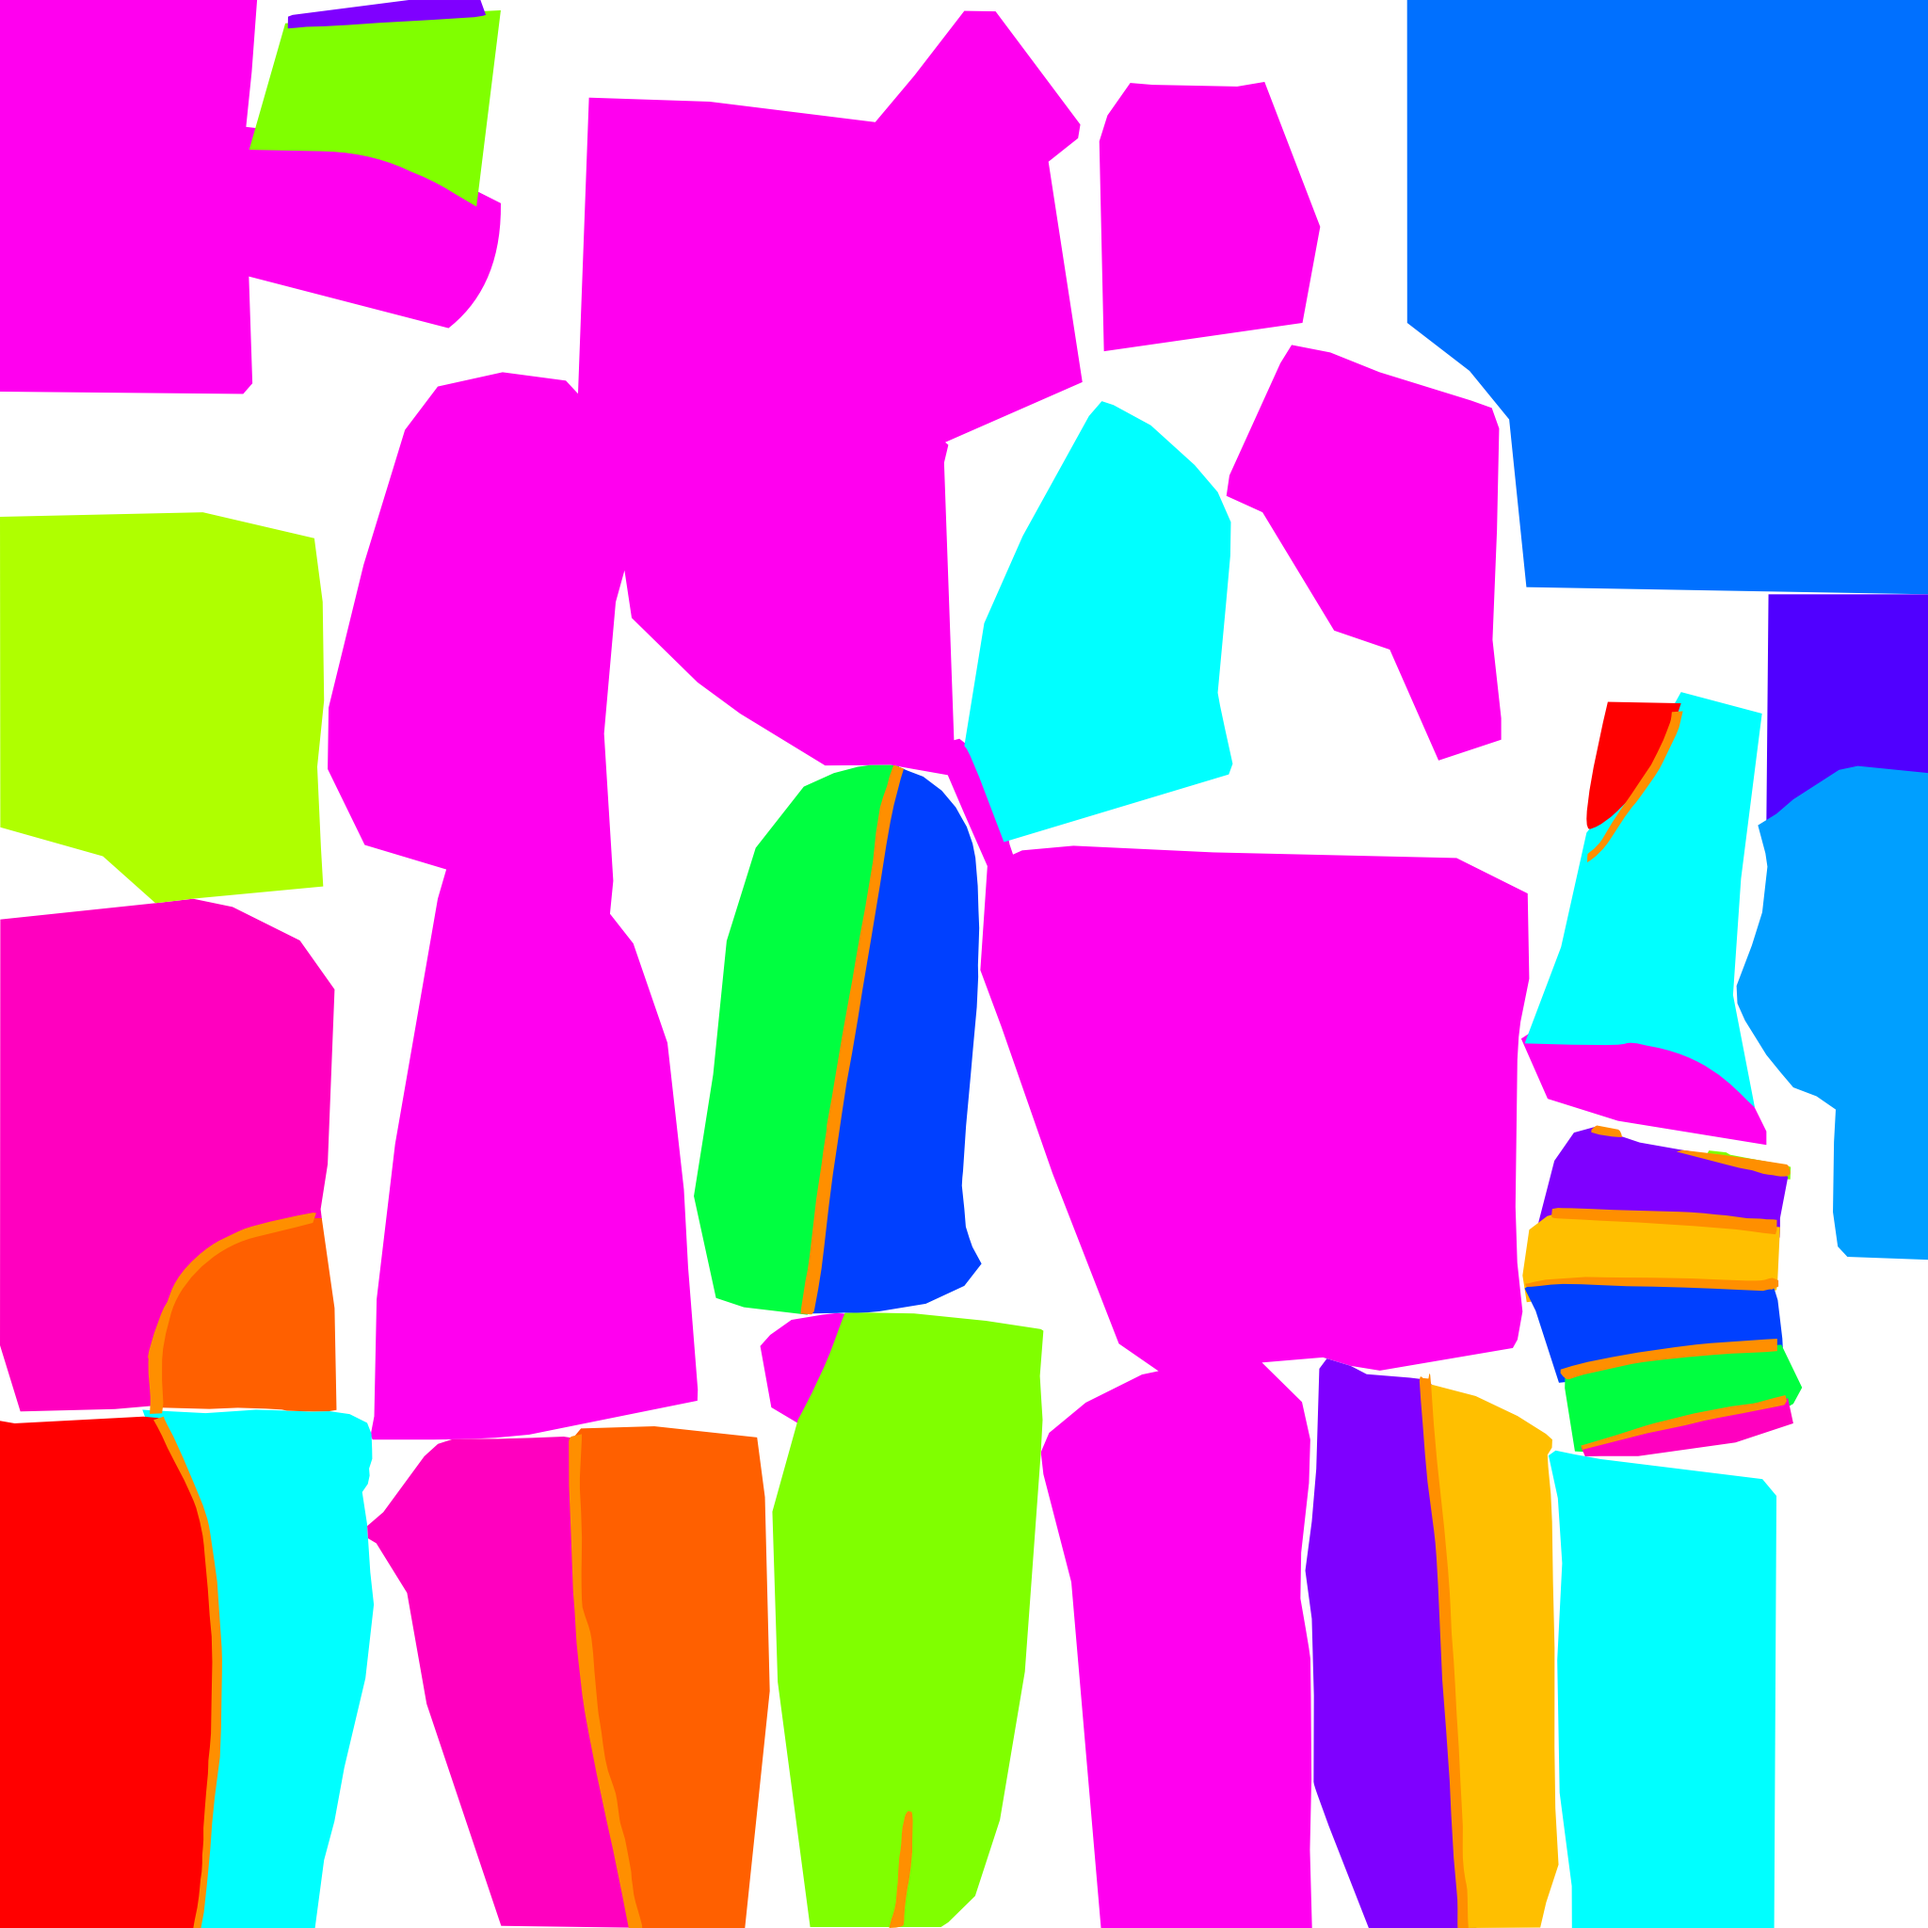
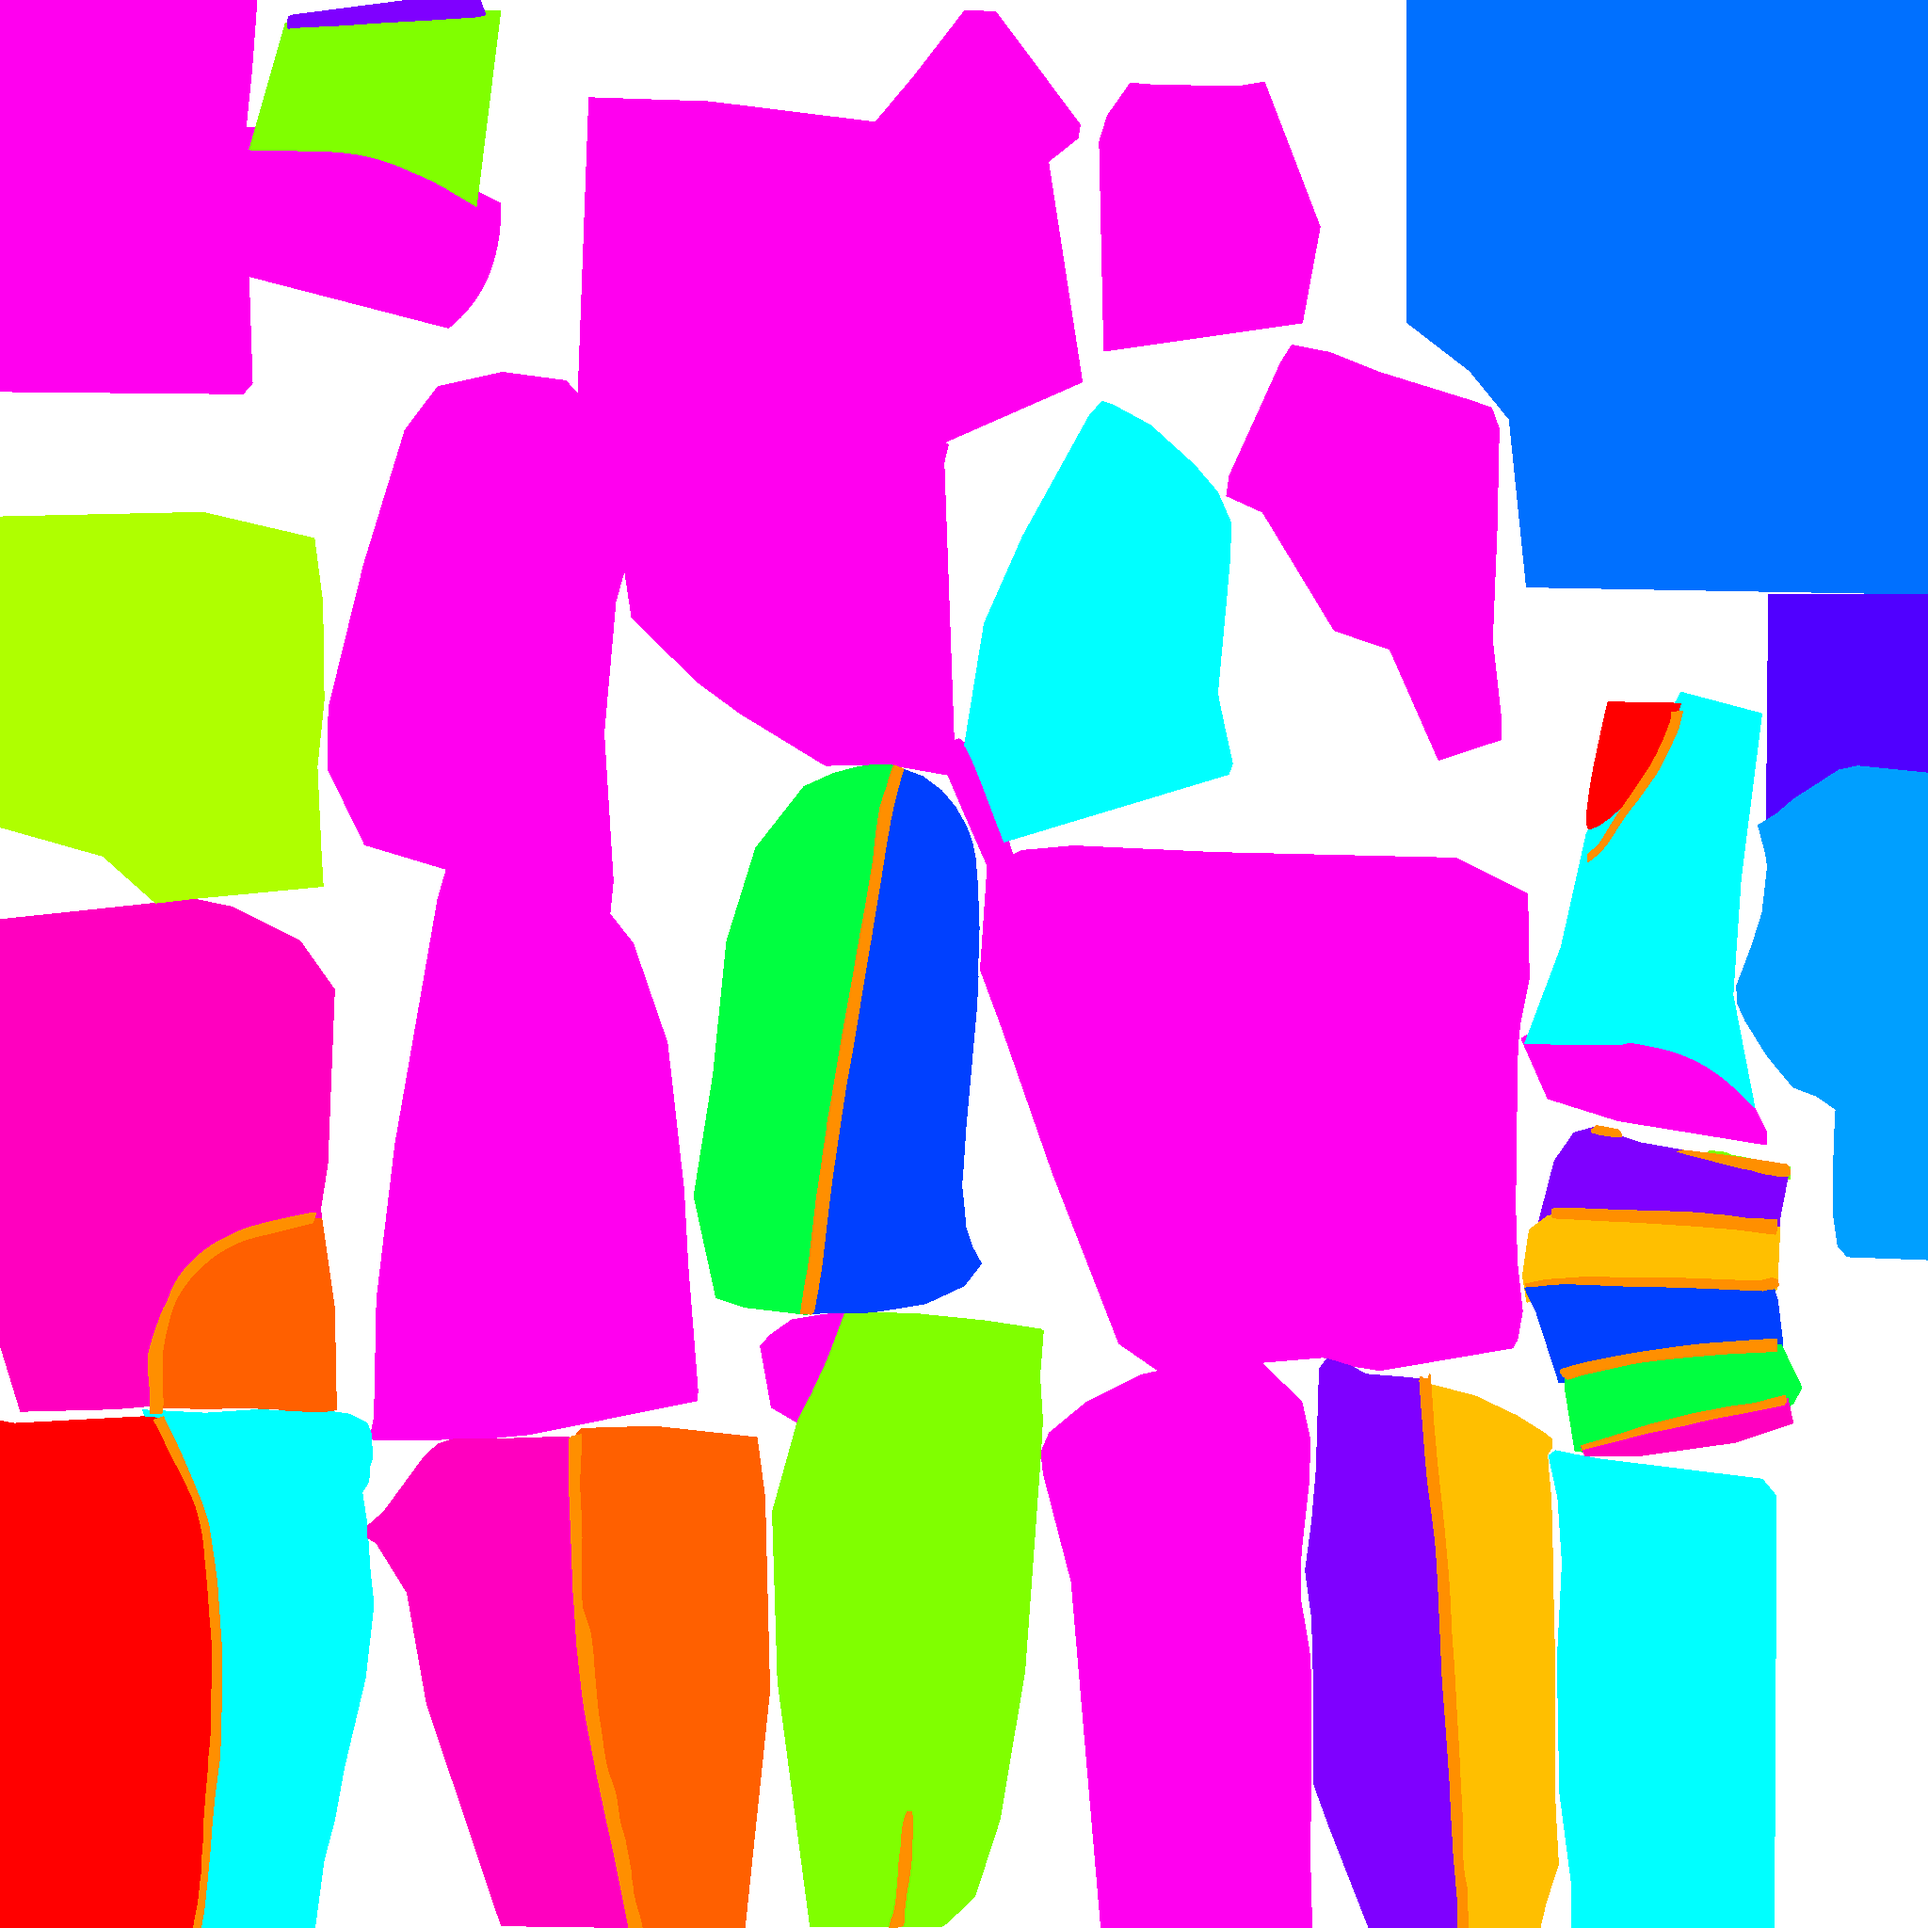
feat: implement global, pixel-budget-based SDF toggle to fix minification artifacts

diff --git a/src/viewer.tsx b/src/viewer.tsx
@@ -20,6 +20,7 @@ import {
     Texture,
     RawTexture, // Added for Step 2
     SubMesh, // Added for Step 6
+    Viewport, // <-- ADD THIS
     // Removed AbstractEngine import
     // Note: Effect is implicitly used by bindForSubMesh, but not explicitly imported.
 } from '@babylonjs/core';
@@ -61,6 +62,7 @@ class ColorSwapPlugin extends MaterialPluginBase {
     // Optional: keep the old feel unless you *want* wider blending
     public blendRadius = 1.01;
     public blendStrength = 1.5;
+    public enableSdf = 1.0; // <-- ADD THIS
     private _isEnabled = false;
     private _markAllDefinesAsDirty: () => void;
 
@@ -240,6 +242,7 @@ class ColorSwapPlugin extends MaterialPluginBase {
             ubo: [
                 { name: "blendRadius", size: 1, type: "float" },
                 { name: "blendStrength", size: 1, type: "float" },
+                { name: "u_enableSdf", size: 1, type: "float" }, // <-- ADD THIS
             ],
             fragment: `
 #ifdef COLOR_SWAP
@@ -248,6 +251,7 @@ class ColorSwapPlugin extends MaterialPluginBase {
 // Kept original uniforms:
 uniform float blendRadius;
 uniform float blendStrength;
+uniform float u_enableSdf; // <-- ADD THIS
 #endif
 `
         };
@@ -260,6 +264,7 @@ uniform float blendStrength;
         if (this._isEnabled && this._baseLUT && this._pointerLUT && this._paletteLUT) {
             uniformBuffer.updateFloat("blendRadius", this.blendRadius);
             uniformBuffer.updateFloat("blendStrength", this.blendStrength);
+            uniformBuffer.updateFloat("u_enableSdf", this.enableSdf); // <-- ADD THIS
 
             const effect = this._material?.getEffect();
             if (effect) {
@@ -346,32 +351,39 @@ uniform float blendStrength;
             // --- START OF FIX 1 (ChatGPT): Rename finalColor ---
             const updateAlbedoGLSL = `
 #ifdef COLOR_SWAP
-  // SDF value and gradient (for edge direction)
+// This is the global switch (1.0 = on, 0.0 = off)
+// It is set from the CPU, which now measures the object's pixel size.
+
+if (u_enableSdf > 0.5) {
+  // --- HIGH QUALITY PATH (SDF ON) ---
+  // The 'fwidth' check is GONE from here.
+  
   float sd = texture2D(sdfTex, vAlbedoUV).r;
+  float sd_fwidth = fwidth(sd); // Still needed for blend width
   vec2 g  = vec2(dFdx(sd), dFdy(sd));
   float glen = max(length(g), 1e-6);
   vec2 dir = g / glen;
 
-  // UV offset ~ 1 pixel along the normal to the edge
   float px = max(fwidth(vAlbedoUV.x) + fwidth(vAlbedoUV.y), 1e-5);
   vec2 duv = dir * px;
 
-  // Sample ID map (albedoSampler) on either side of the edge, then convert to *linear*
-  vec3 idA = srgbToLinear(texture2D(albedoSampler, vAlbedoUV - duv).rgb); // side A (linear)
-  vec3 idB = srgbToLinear(texture2D(albedoSampler, vAlbedoUV + duv).rgb); // side B (linear)
+  vec3 idA = srgbToLinear(texture2D(albedoSampler, vAlbedoUV - duv).rgb);
+  vec3 idB = srgbToLinear(texture2D(albedoSampler, vAlbedoUV + duv).rgb);
 
-  // Use old exact match first to preserve wiring, fallback to nearest if needed
   int  zA = findZone(idA);
   int  zB = findZone(idB);
   vec3 palA = zoneToPalette(zA);
   vec3 palB = zoneToPalette(zB);
 
-  // Build a smooth transition centered at 0.5
-  float w = max(fwidth(sd) * blendStrength, 1e-6);
+  float w = max(sd_fwidth * blendStrength, 1e-6);
   float t = smoothstep(0.5 - blendRadius * w, 0.5 + blendRadius * w, sd);
-
-  // Final palette-blended albedo
   surfaceAlbedo.rgb = mix(palB, palA, t);
+
+} else {
+  // --- FALLBACK PATH (SDF OFF) ---
+  vec3 idC = srgbToLinear(texture2D(albedoSampler, vAlbedoUV).rgb);
+  surfaceAlbedo.rgb = zoneToPalette(findZone(idC));
+}
 #endif
 `;
             // --- END OF A.1 Shader glue ---
@@ -418,6 +430,7 @@ class AssetManager {
 export class SceneManager {
     private engine: Engine;
     private scene: Scene;
+    private camera: ArcRotateCamera; // <-- MAKE THIS A CLASS PROPERTY
     private resizeObserver: ResizeObserver;
     private assetManager: AssetManager;
     private isSceneReady = false;
@@ -440,20 +453,77 @@ export class SceneManager {
         this.assetManager = new AssetManager(this.scene);
         this.scene.clearColor = new Color4(0, 0, 0, 0);
 
-        const camera = new ArcRotateCamera("camera", Math.PI / 2, Math.PI / 2, 3, Vector3.Zero(), this.scene);
-        camera.minZ = 0.1;
-        camera.attachControl(canvas, true);
+        this.camera = new ArcRotateCamera("camera", Math.PI / 2, Math.PI / 2, 3, Vector3.Zero(), this.scene); // <-- CHANGE to this.camera
+        this.camera.minZ = 0.1;
+        this.camera.attachControl(canvas, true);
         new HemisphericLight("light", new Vector3(0, 1, 0), this.scene);
 
-        camera.fov = 0.3;
-        camera.lowerRadiusLimit = 1.5;
-        camera.upperRadiusLimit = 4;
-        camera.panningSensibility = 0;
-        camera.wheelPrecision = 150;
+        this.camera.fov = 0.3;
+        this.camera.lowerRadiusLimit = 1.5;
+        this.camera.upperRadiusLimit = 4;
+        this.camera.panningSensibility = 0;
+        this.camera.wheelPrecision = 150;
 
         this.loadInitialAssets(onReady);
 
-        this.engine.runRenderLoop(() => this.scene.render());
+        // ... inside the constructor ...
+
+        this.engine.runRenderLoop(() => {
+            
+            // --- THIS IS THE NEW "PIXEL BUDGET" LOGIC ---
+            if (this.activeShellPlugin && this.activeShellName && this.gloveShells.has(this.activeShellName)) {
+                const activeMesh = this.gloveShells.get(this.activeShellName);
+                if (activeMesh) { // <-- guard for TS
+                  activeMesh.computeWorldMatrix(true); // Ensure matrices are up to date
+
+                  const localCorners = activeMesh.getBoundingInfo().boundingBox.vectors;
+                  const worldMatrix = activeMesh.getWorldMatrix();
+                  const transformMatrix = this.scene.getTransformMatrix();
+                  const viewport = this.camera.viewport.toGlobal(this.engine.getRenderWidth(), this.engine.getRenderHeight());
+
+                  let minX = Infinity, minY = Infinity;
+                  let maxX = -Infinity, maxY = -Infinity;
+                  let validPixels = 0;
+
+                  // Project all 8 corners of the box to 2D screen space
+                  for (const corner of localCorners) {
+                    const screenPos = Vector3.Project(corner, worldMatrix, transformMatrix, viewport);
+
+                    // Only count corners that are in front of the camera
+                    if (screenPos.z > 0 && screenPos.z < 1) {
+                      minX = Math.min(minX, screenPos.x);
+                      maxX = Math.max(maxX, screenPos.x);
+                      minY = Math.min(minY, screenPos.y);
+                      maxY = Math.max(maxY, screenPos.y);
+                      validPixels++;
+                    }
+                  }
+
+                  let enableSdf = 1.0; // Default to ON
+
+                  if (validPixels > 0) {
+                    const pixelHeight = maxY - minY;
+
+                    // If the object is less than 250px tall, turn off SDF
+                    const SDF_PIXEL_HEIGHT_THRESHOLD = 470.0;
+
+                    enableSdf = (pixelHeight > SDF_PIXEL_HEIGHT_THRESHOLD) ? 1.0 : 0.0;
+                  } else {
+                    enableSdf = 0.0; // Object is off-screen
+                  }
+
+                  // Set the uniform for the shader
+                  this.activeShellPlugin.enableSdf = enableSdf;
+                  if (this.activeWebPlugin) {
+                    this.activeWebPlugin.enableSdf = enableSdf;
+                  }
+                }
+            }
+            // --- END OF NEW LOGIC ---
+
+            this.scene.render();
+        });
+        
         this.resizeObserver = new ResizeObserver(() => this.engine.resize());
         this.resizeObserver.observe(canvas);
     }
